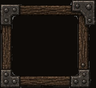
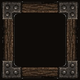
Iron UI frame rebuilt from clean pieces: the bottom left bracket in all four corners, the solid right beam mirrored on the left, the bottom beam flipped on top; same frame for panels, windows, messages, minimap and portrait, edges tile-fit without seams

diff --git a/tools/art/ui_grok.py b/tools/art/ui_grok.py
@@ -37,16 +37,6 @@ def save(img, name):
     print(f"{OUT}/{name} {img.size}")
 
 
-def framed(fill, frame, size):
-    """`fill` tiled under `frame` stretched to `size`."""
-    out = Image.new("RGBA", size)
-    for y in range(0, size[1], fill.height):
-        for x in range(0, size[0], fill.width):
-            out.alpha_composite(fill, (x, y))
-    out.alpha_composite(frame.resize(size, Image.LANCZOS))
-    return out
-
-
 def opaque_bbox(img, threshold=200):
     a = np.asarray(img.getchannel("A")) >= threshold
     ys, xs = np.nonzero(a)
@@ -106,20 +96,97 @@ def command_buttons():
     save(gray, "cmd_disabled.png")
 
 
+def periodic(img, period, axis):
+    """`img` cut to `period` along `axis` (0 = x, 1 = y) so that it tiles without a seam: the
+    part past the period is cross-faded into the start. `img` must be longer than `period`."""
+    a = np.asarray(img).astype(float)
+    if axis == 1:
+        a = a.transpose(1, 0, 2)
+    extra = a.shape[1] - period
+    out = a[:, :period].copy()
+    t = np.linspace(0.0, 1.0, extra + 2)[1:-1][None, :, None]
+    out[:, :extra] = a[:, period:] * (1 - t) + a[:, :extra] * t
+    if axis == 1:
+        out = out.transpose(1, 0, 2)
+    return Image.fromarray(out.round().astype(np.uint8))
+
+
+# The iron-bound frame, rebuilt from two clean pieces of Grok's iron_frame.png (its top right
+# bracket is drawn wrong and its left beam is patchy): the bottom left bracket, flipped into
+# all four corners, and a stretch of the right beam (mirrored for the left one) and of the
+# bottom beam (flipped for the top one). Sizes in source pixels; the margins are the nine-patch
+# margins, the beams between them repeat every PERIOD so that they tile in the theme.
+FRAME_BRACKET = (0, 142, 46, 181)   # bottom left iron bracket, with its beam ends
+FRAME_SIDE = (152, 45, 192, 125)    # right beam between the brackets, no rivet
+FRAME_BOTTOM = (50, 142, 140, 181)  # bottom beam between the brackets, same rows as the bracket
+FRAME_MARGIN = (48, 48)
+FRAME_PERIOD = 64
+
+
+def _band(img, axis, start, end):
+    """`img`'s alpha kept only from `start` to `end` along `axis` (0 = x, 1 = y)."""
+    a = np.asarray(img.getchannel("A")).copy()
+    if axis == 0:
+        a[:, :start] = 0
+        a[:, end:] = 0
+    else:
+        a[:start, :] = 0
+        a[end:, :] = 0
+    return Image.fromarray(a)
+
+
+def iron_frame(fill):
+    """The frame over `fill` (a FRAME_PERIOD-square tile laid under it, phase-matched to the
+    nine-patch middle), as a nine-patch of 2 * FRAME_MARGIN + FRAME_PERIOD source pixels."""
+    src = load("iron_frame.png")
+    mx, my = FRAME_MARGIN
+    n = FRAME_PERIOD
+    w, h = 2 * mx + n, 2 * my + n
+    out = Image.new("RGBA", (w, h))
+    # Under the frame: the fill, over the whole rectangle.
+    for y in range(my - 2 * n, h, n):
+        for x in range(mx - 2 * n, w, n):
+            out.paste(fill, (x, y))
+    # Beams: one period each in the nine-patch middle. The right and bottom ones are laid,
+    # then mirrored onto the left and top.
+    side = periodic(src.crop(FRAME_SIDE), n, 1)
+    bottom = periodic(src.crop(FRAME_BOTTOM), n, 0)
+    right = Image.new("RGBA", (w, h))
+    for y in range(my - 2 * n, h, n):
+        right.paste(side, (w - side.width + 4, y))
+    low = Image.new("RGBA", (w, h))
+    for x in range(mx - 2 * n, w, n):
+        low.paste(bottom, (x, h - bottom.height))
+    bl = src.crop(FRAME_BRACKET)
+    bw, bh = bl.size
+    # Beam ends stop under the brackets, not past them.
+    right.putalpha(_band(right, 1, bh - 8, h - bh + 8))
+    low.putalpha(_band(low, 0, bw - 8, w - bw + 8))
+    beams = Image.alpha_composite(right, right.transpose(Image.FLIP_LEFT_RIGHT))
+    beams.alpha_composite(low)
+    beams.alpha_composite(low.transpose(Image.FLIP_TOP_BOTTOM))
+    out.alpha_composite(beams)
+    # Brackets: the bottom left one in every corner.
+    out.alpha_composite(bl, (0, h - bh))
+    out.alpha_composite(bl.transpose(Image.FLIP_LEFT_RIGHT), (w - bw, h - bh))
+    out.alpha_composite(bl.transpose(Image.FLIP_TOP_BOTTOM), (0, 0))
+    out.alpha_composite(bl.transpose(Image.ROTATE_180), (w - bw, 0))
+    return out
+
+
 def panels():
     """Dark oak boards inside a frame with iron corner brackets (big panels, minimap, portrait)."""
-    iron = load("iron_frame.png")
-    iron = iron.crop(opaque_bbox(iron, 128))
     dark = load("plank_dark.png")
     x0, y0, x1, y1 = opaque_bbox(dark, 250)
     boards = dark.crop((x0 + 30, y0 + 25, x1 - 30, y1 - 25))
-    panel = framed(boards, iron, iron.size)
-    save(scaled(panel, 0.5), "panel.png")
-    black = Image.new("RGBA", (32, 32), (14, 11, 8, 255))
-    save(scaled(framed(black, iron, iron.size), 0.5), "minimap_frame.png")
-    save(scaled(framed(black, iron, iron.size), 0.34), "portrait_frame.png")
+    n = FRAME_PERIOD
+    tile = boards.crop((40, 0, 40 + n + 14, boards.height)).resize((n + 14, n + 14), Image.LANCZOS)
+    tile = periodic(periodic(tile, n, 0), n, 1)
+    save(scaled(iron_frame(tile), 0.5), "panel.png")
+    black = Image.new("RGBA", (n, n), (14, 11, 8, 255))
+    save(scaled(iron_frame(black), 0.5), "minimap_frame.png")
+    save(scaled(iron_frame(black), 0.375), "portrait_frame.png")
     well = darker(boards, 0.55).crop((0, 0, 64, 48))
-    rim = Image.new("RGBA", well.size)
     a = np.zeros((well.height, well.width, 4), np.uint8)
     a[:2, :] = (8, 6, 4, 255)
     a[:, :2] = (8, 6, 4, 255)
